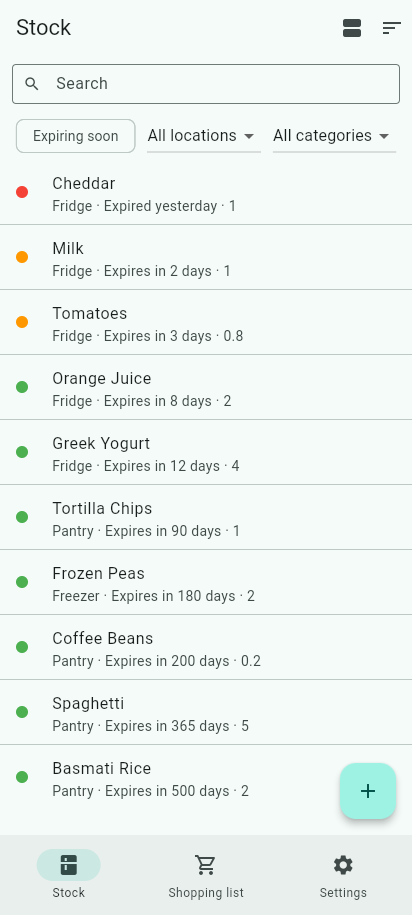
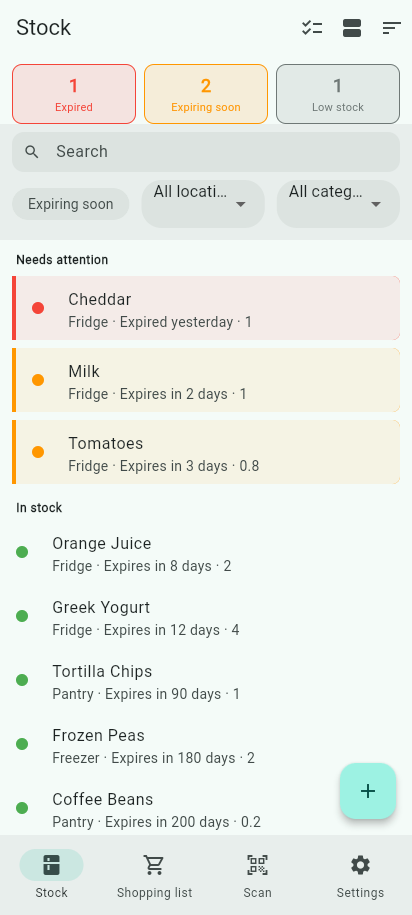
docs: refresh README screenshots and feature list
Screenshots were from July and only covered light mode; capture fresh
light+dark stock overview, shopping list, settings, and the barcode
scan -> Open Food Facts lookup flow. The features list had also drifted
behind actual functionality (multi-barcode, batches, consumption log,
CSV import/export, backup/restore, offline scan queue).

Closes #180

diff --git a/README.md b/README.md
@@ -12,17 +12,30 @@ Self-hosted household stock/inventory management — a Grocy alternative.
 
 ## Features
 
-- Stock overview with best-before-date tracking
-- Barcode scanning (Android, iOS, Web)
-- Open Food Facts lookup for unknown products
+- Stock overview with best-before-date tracking, grouped into "needs attention" / "in stock"
+- Barcode scanning (Android, iOS, Web), with an offline queue for scans made without a
+  connection and a scan history
+- Open Food Facts lookup for unknown products, with a custom-photo upload fallback
+- Multiple/alternate barcodes per product
+- Stock batches — track several purchases of the same product with different
+  best-before dates and locations
+- Consumption log with undo
 - Shopping list, with a one-tap "add low stock" shortcut
-- Deployable as a Home Assistant app, or standalone via Docker
+- Categories and locations management
+- CSV import/export of stock
+- In-app SQLite backup/restore from Settings
+- Deployable as a Home Assistant add-on (with a `/api/stats` REST sensor for
+  automations), or standalone via Docker
 
 ## Screenshots
 
-| Stock | Shopping list | Settings |
+| Stock (light) | Stock (dark) | Barcode scan → Open Food Facts |
 |---|---|---|
-| ![Stock overview with expiry status](docs/screenshots/stock.png) | ![Shopping list](docs/screenshots/shopping.png) | ![Settings](docs/screenshots/settings.png) |
+| ![Stock overview with expiry status](docs/screenshots/stock.png) | ![Stock overview in dark mode](docs/screenshots/stock-dark.png) | ![Add to stock after a barcode scan, prefilled from Open Food Facts](docs/screenshots/scan.png) |
+
+| Shopping list | Settings |
+|---|---|
+| ![Shopping list](docs/screenshots/shopping.png) | ![Settings](docs/screenshots/settings.png) |
 
 ## Layout
 